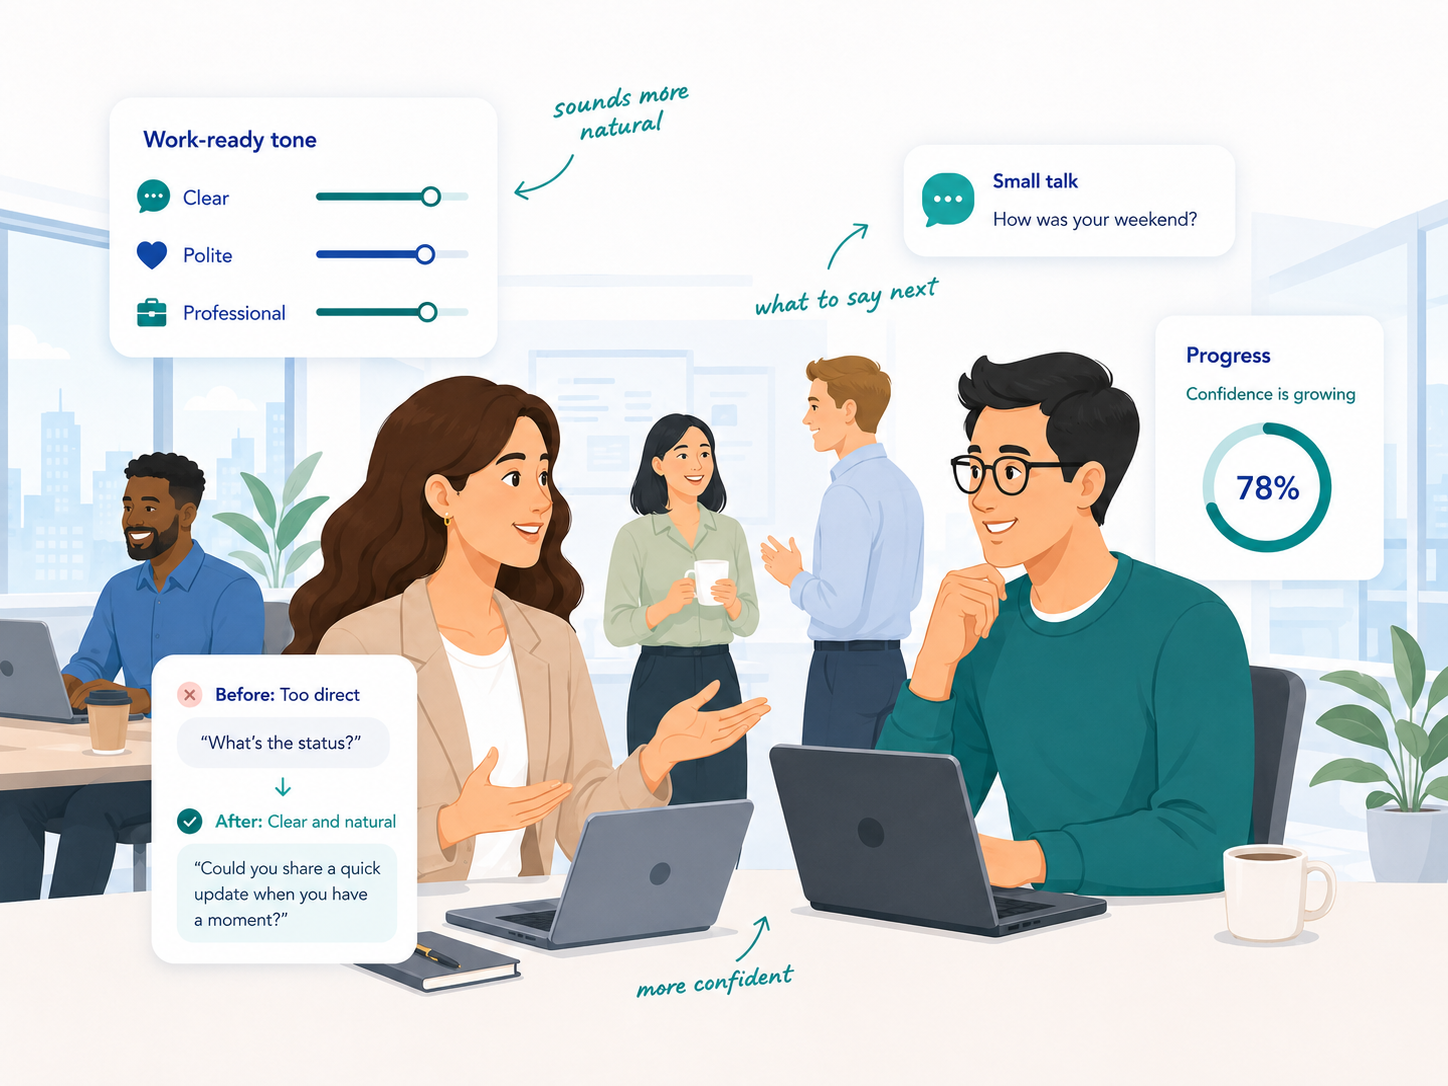
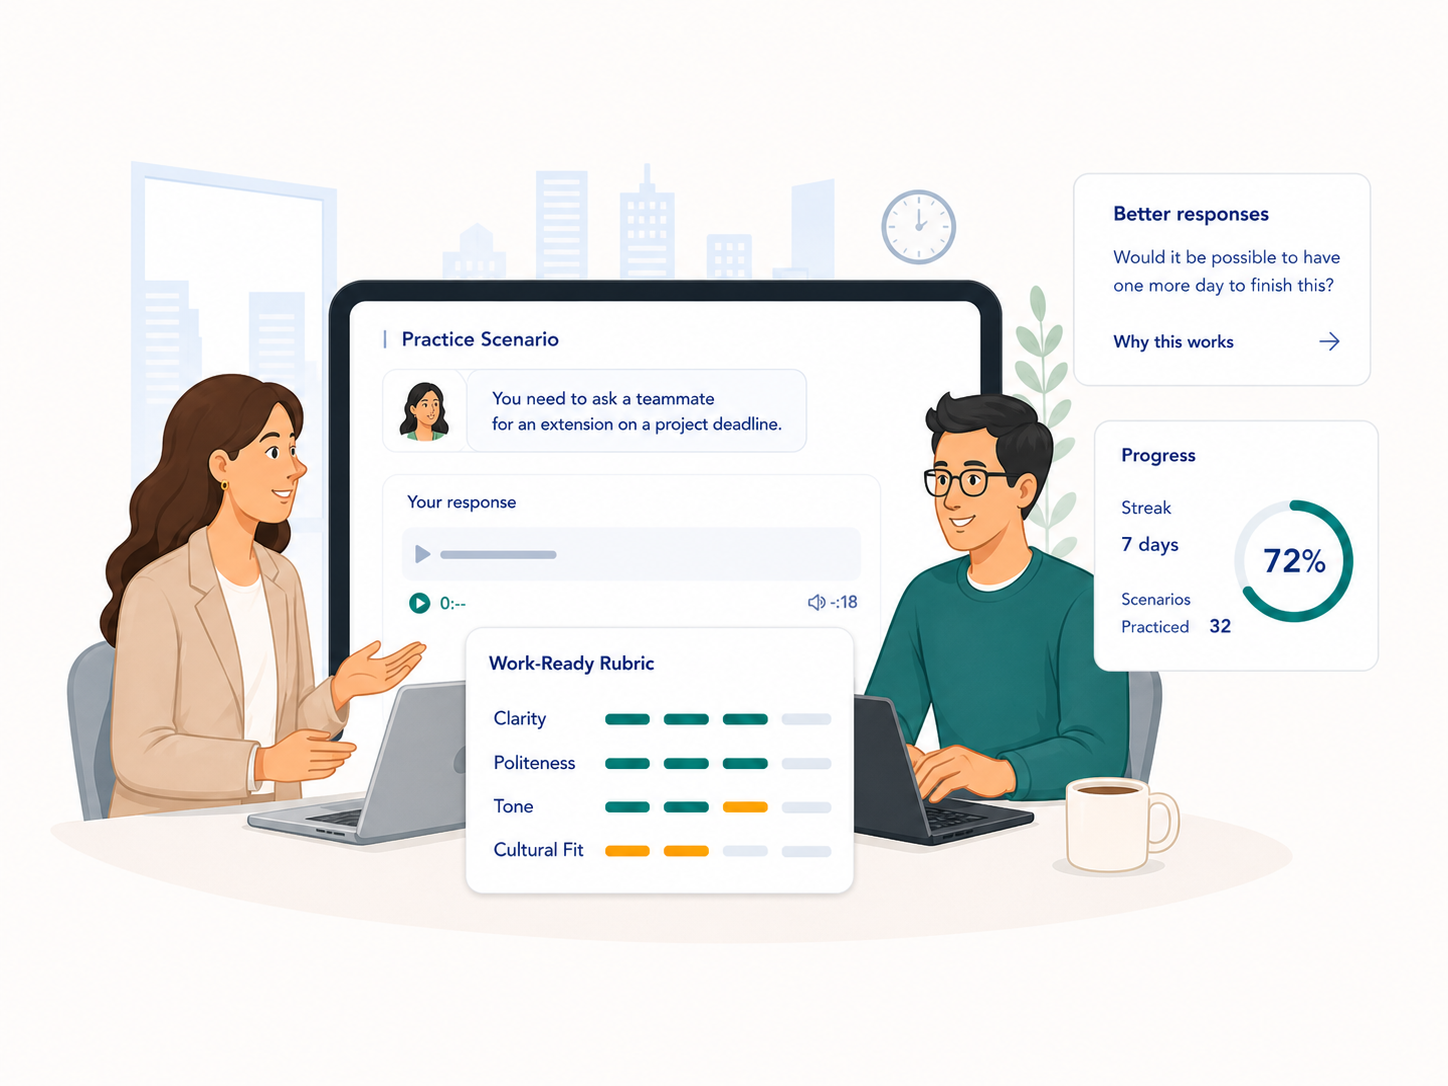
Add files via upload

diff --git a/assets/css/style.css b/assets/css/style.css
@@ -1333,3 +1333,263 @@ h1, h2 {
     font-size: 13px;
   }
 }
+
+
+/* ===== v4.4 mobile-first hero rebuild =====
+   Fixes mobile first-view: compact header, clear app preview, no oversized image above copy. */
+.mobile-copy,
+.mobile-app-preview {
+  display: none;
+}
+.hero-cta-note {
+  margin: -4px 0 14px;
+  color: #4b5d76;
+  font-size: 14px;
+  font-weight: 750;
+}
+@media (max-width: 720px) {
+  .desktop-copy {
+    display: none !important;
+  }
+  .mobile-copy {
+    display: inline !important;
+  }
+  .site-header {
+    position: sticky;
+    top: 0;
+    z-index: 50;
+    background: rgba(255,255,255,.94);
+    backdrop-filter: blur(14px);
+  }
+  .header-inner {
+    min-height: 62px !important;
+    gap: 10px;
+    padding-top: 8px;
+    padding-bottom: 8px;
+  }
+  .brand {
+    gap: 8px;
+    min-width: 0;
+    flex: 1 1 auto;
+  }
+  .brand-mark {
+    width: 40px !important;
+    height: 40px !important;
+    min-width: 40px;
+    border-radius: 12px !important;
+    font-size: 20px !important;
+  }
+  .brand span:last-child {
+    white-space: nowrap;
+    font-size: 22px !important;
+    line-height: 1 !important;
+    letter-spacing: -0.035em;
+  }
+  .header-actions {
+    flex: 0 0 auto;
+  }
+  .header-actions .btn {
+    height: 42px !important;
+    min-width: 104px !important;
+    padding: 0 14px !important;
+    border-radius: 14px !important;
+    font-size: 14px !important;
+    line-height: 1 !important;
+    justify-content: center !important;
+    text-align: center !important;
+  }
+
+  .hero-v4 {
+    padding: 18px 0 24px !important;
+  }
+  .hero-v4-grid {
+    display: block !important;
+  }
+  .hero-v4 .hero-copy {
+    max-width: none !important;
+  }
+  .hero-v4 .hero-visual-v4 {
+    display: none !important;
+  }
+  .hero-v4 .hero-eyebrow {
+    margin: 0 0 12px !important;
+    padding: 7px 12px !important;
+    font-size: 12px !important;
+  }
+  .hero-v4 h1 {
+    margin: 0 0 12px !important;
+    font-size: clamp(34px, 9.5vw, 43px) !important;
+    line-height: 1.02 !important;
+    letter-spacing: -0.06em !important;
+  }
+  .hero-v4 h1::after {
+    width: 66px !important;
+    height: 5px !important;
+    margin-top: 10px !important;
+  }
+  .hero-lead {
+    margin: 0 0 14px !important;
+    font-size: 16px !important;
+    line-height: 1.48 !important;
+  }
+  .mobile-app-preview {
+    display: block !important;
+    margin: 14px 0 16px;
+    padding: 14px;
+    border: 1px solid rgba(16,35,74,.10);
+    border-radius: 22px;
+    background:
+      radial-gradient(circle at 90% 0%, rgba(17,134,141,.12), transparent 42%),
+      #ffffff;
+    box-shadow: 0 18px 48px rgba(16,35,74,.10);
+    color: var(--navy);
+  }
+  .preview-top {
+    display: flex;
+    justify-content: space-between;
+    align-items: center;
+    gap: 10px;
+    padding-bottom: 10px;
+    border-bottom: 1px solid rgba(16,35,74,.08);
+    font-weight: 900;
+  }
+  .preview-top strong {
+    padding: 4px 8px;
+    border-radius: 999px;
+    background: rgba(17,134,141,.10);
+    color: #08767b;
+    font-size: 12px;
+  }
+  .preview-scenario {
+    margin: 10px 0;
+    padding: 10px 12px;
+    border-radius: 14px;
+    background: rgba(235,244,247,.75);
+    font-size: 13px;
+    font-weight: 800;
+  }
+  .preview-row {
+    display: grid;
+    gap: 5px;
+    margin: 8px 0;
+    padding: 10px 12px;
+    border-radius: 15px;
+    font-size: 12px;
+  }
+  .preview-row span {
+    font-weight: 850;
+  }
+  .preview-row b {
+    font-size: 15px;
+    line-height: 1.25;
+  }
+  .preview-row em {
+    justify-self: start;
+    font-style: normal;
+    font-size: 11px;
+    font-weight: 900;
+    padding: 4px 8px;
+    border-radius: 999px;
+  }
+  .preview-row.warning {
+    background: rgba(234,124,99,.10);
+    border: 1px solid rgba(234,124,99,.18);
+  }
+  .preview-row.warning span,
+  .preview-row.warning em {
+    color: #b8523f;
+  }
+  .preview-row.warning em {
+    background: rgba(234,124,99,.13);
+  }
+  .preview-row.success {
+    background: rgba(17,134,141,.09);
+    border: 1px solid rgba(17,134,141,.18);
+  }
+  .preview-row.success span,
+  .preview-row.success em {
+    color: #08767b;
+  }
+  .preview-row.success em {
+    background: rgba(17,134,141,.12);
+  }
+  .preview-note {
+    margin-top: 10px;
+    padding: 10px 12px;
+    border-radius: 14px;
+    background: rgba(16,35,74,.04);
+    color: #43546f;
+    font-size: 12px;
+    font-weight: 750;
+    line-height: 1.35;
+  }
+  .hero-actions {
+    display: grid !important;
+    grid-template-columns: 1fr 1fr;
+    gap: 10px !important;
+    margin: 0 0 8px !important;
+  }
+  .hero-actions .btn {
+    min-height: 46px !important;
+    width: 100%;
+    padding: 12px 8px !important;
+    justify-content: center !important;
+    text-align: center !important;
+    font-size: 15px !important;
+  }
+  .hero-cta-note {
+    margin: 2px 0 10px !important;
+    font-size: 12px !important;
+  }
+  .hero-level {
+    margin-top: 2px !important;
+    font-size: 12px !important;
+    line-height: 1.25;
+    padding: 7px 10px !important;
+  }
+  .hero-trust-line {
+    font-size: 12px !important;
+    line-height: 1.35;
+  }
+  .hero-benefits {
+    display: none !important;
+  }
+  .definition-line {
+    display: none !important;
+  }
+
+  /* Prevent explanation images from becoming tall distorted columns */
+  .difference-example {
+    margin-top: 18px !important;
+  }
+  .difference-example img {
+    width: 100% !important;
+    height: auto !important;
+    max-height: 260px !important;
+    object-fit: contain !important;
+    border-radius: 18px !important;
+  }
+
+  /* Final CTA should not dominate mobile */
+  .final-cta .inner {
+    padding: 26px 20px !important;
+  }
+  .final-cta h2 {
+    font-size: 28px !important;
+    line-height: 1.08 !important;
+  }
+  .final-cta p {
+    font-size: 14px !important;
+  }
+  .final-cta img {
+    display: none !important;
+  }
+  .footer .brand span:last-child {
+    white-space: normal;
+    font-size: 26px !important;
+  }
+  .footer-links {
+    gap: 18px !important;
+    font-size: 17px !important;
+  }
+}

diff --git a/index.html b/index.html
@@ -107,12 +107,29 @@
     <div class="container hero-v4-grid">
       <div class="hero-copy">
         <div class="eyebrow hero-eyebrow">Not another AI correction tool</div>
-        <h1 id="hero-title">Learn the culture behind workplace English.</h1>
-        <p class="hero-lead">Understand what people really mean. Know what to say next. Work smoother. Grow further.</p>
+        <h1 id="hero-title">
+          <span class="desktop-copy">Learn the culture behind workplace English.</span>
+          <span class="mobile-copy">Workplace English + culture practice.</span>
+        </h1>
+        <p class="hero-lead desktop-copy">Understand what people really mean. Know what to say next. Work smoother. Grow further.</p>
+        <p class="hero-lead mobile-copy">Know what people mean. Know what to say next.</p>
+
+        <div class="mobile-app-preview" aria-label="Workwise English mobile app preview">
+          <div class="preview-top">
+            <span>Workplace English practice</span>
+            <strong>Free</strong>
+          </div>
+          <div class="preview-scenario">Scenario: Ask for more time on a project.</div>
+          <div class="preview-row warning"><span>Your draft</span><b>I need more time.</b><em>Too direct</em></div>
+          <div class="preview-row success"><span>Better response</span><b>Could I have one more day?</b><em>Clear · Polite</em></div>
+          <div class="preview-note">Culture note: soft requests sound more collaborative.</div>
+        </div>
+
         <div class="hero-actions">
           <a class="btn btn-primary" href="/app/">Start Free</a>
           <a class="btn btn-secondary" href="/practice/">Try a Scenario</a>
         </div>
+        <p class="hero-cta-note">No signup. Opens in your browser.</p>
         <p class="hero-level">One real scenario a day · Free for learners</p>
         <p class="hero-trust-line">No email login · No credit card · No app install</p>
       </div>

diff --git a/V4-SEO-AEO-NOTES.md b/V4-SEO-AEO-NOTES.md
@@ -41,3 +41,13 @@ Understand what people really mean. Know what to say next. Work smoother. Grow f
 - Mobile now shows the Hero image before the HTML copy.
 - Added the clear “Too direct → More professional” visual as the difference/explanation image.
 - Kept SEO/AEO metadata, FAQPage JSON-LD, WebApplication JSON-LD, robots.txt, sitemap.xml, and mobile CTA fixes.
+
+
+## v4.4 mobile-first Hero rebuild
+
+- Replaced mobile first view with a compact HTML app preview.
+- Hid the oversized mobile hero image on small screens.
+- Added a short mobile-specific headline: “Workplace English + culture practice.”
+- Kept the longer culture headline for desktop.
+- Compact mobile header so the app identity and CTA fit on one line.
+- Capped explanation images and removed final CTA image on mobile to avoid distorted/tall display.

diff --git a/README.md b/README.md
@@ -38,3 +38,7 @@ Progress is saved in the user’s browser. Use Export / Import to back up or mov
 ## v4.3
 
 GitHub upload-ready build with mobile-first Hero image and before/after difference image.
+
+## v4.4
+
+Mobile-first Hero rebuild with compact HTML app preview for clearer smartphone first view.
